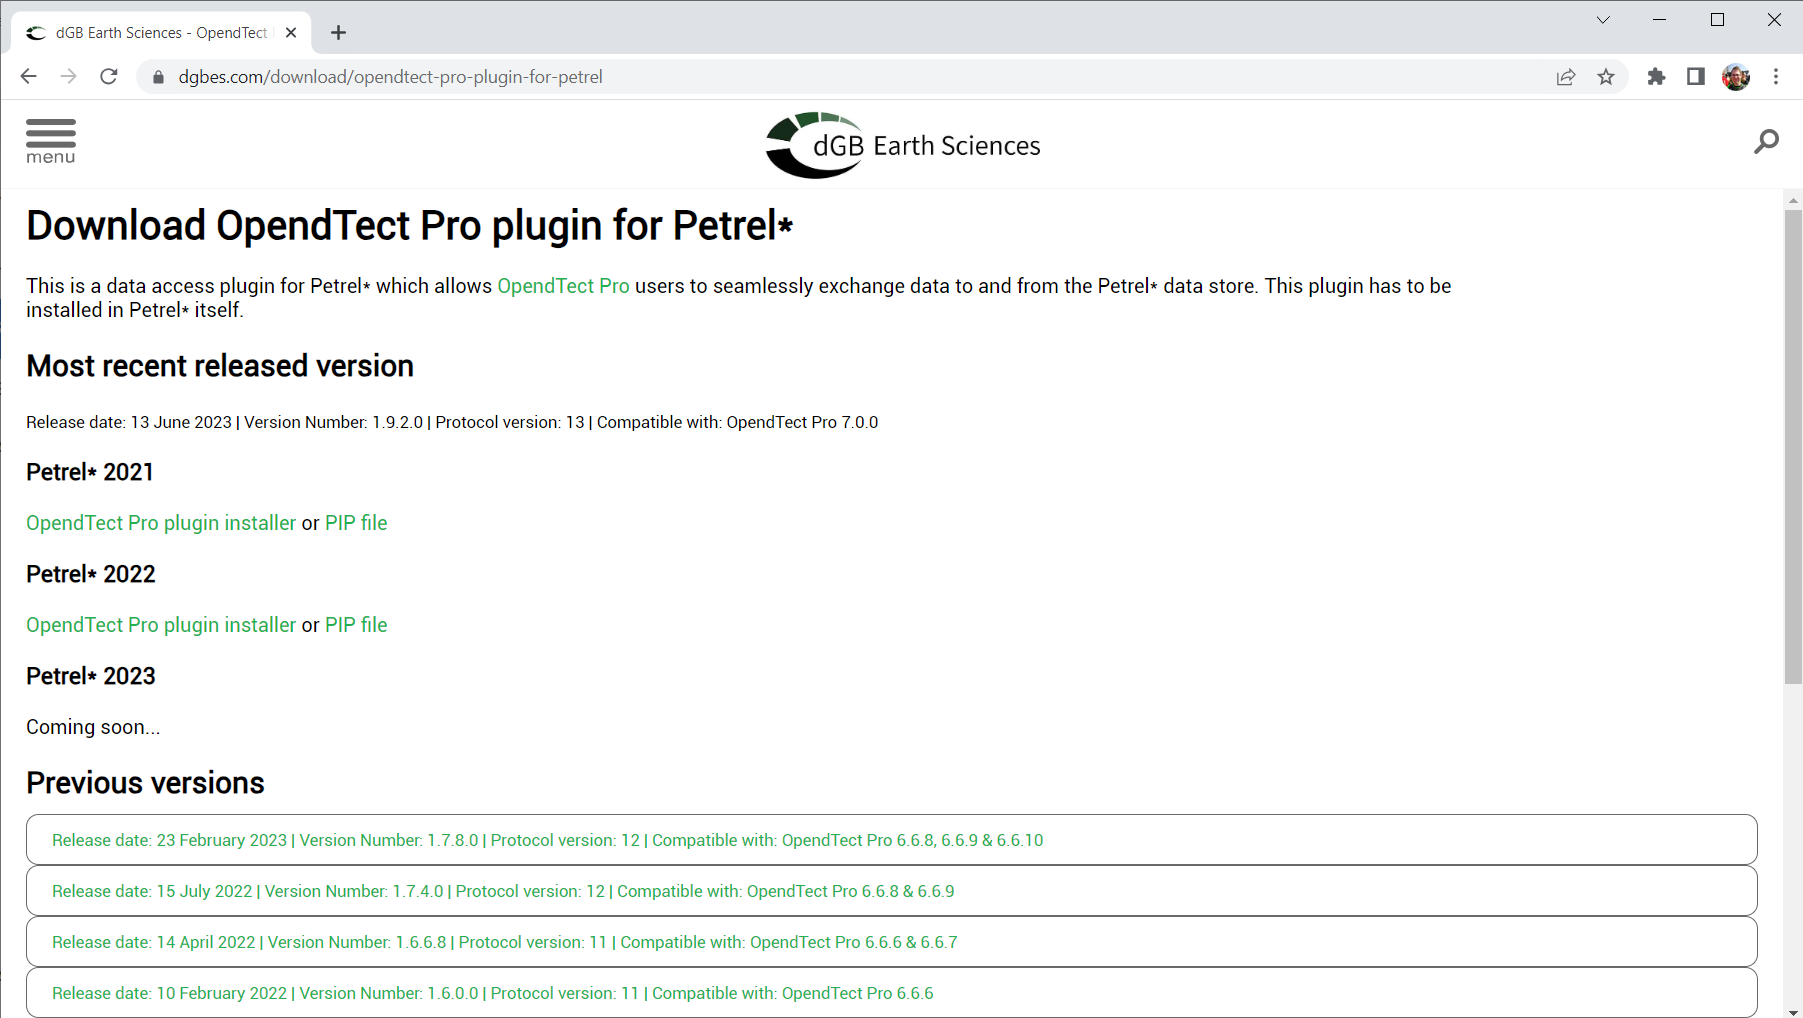
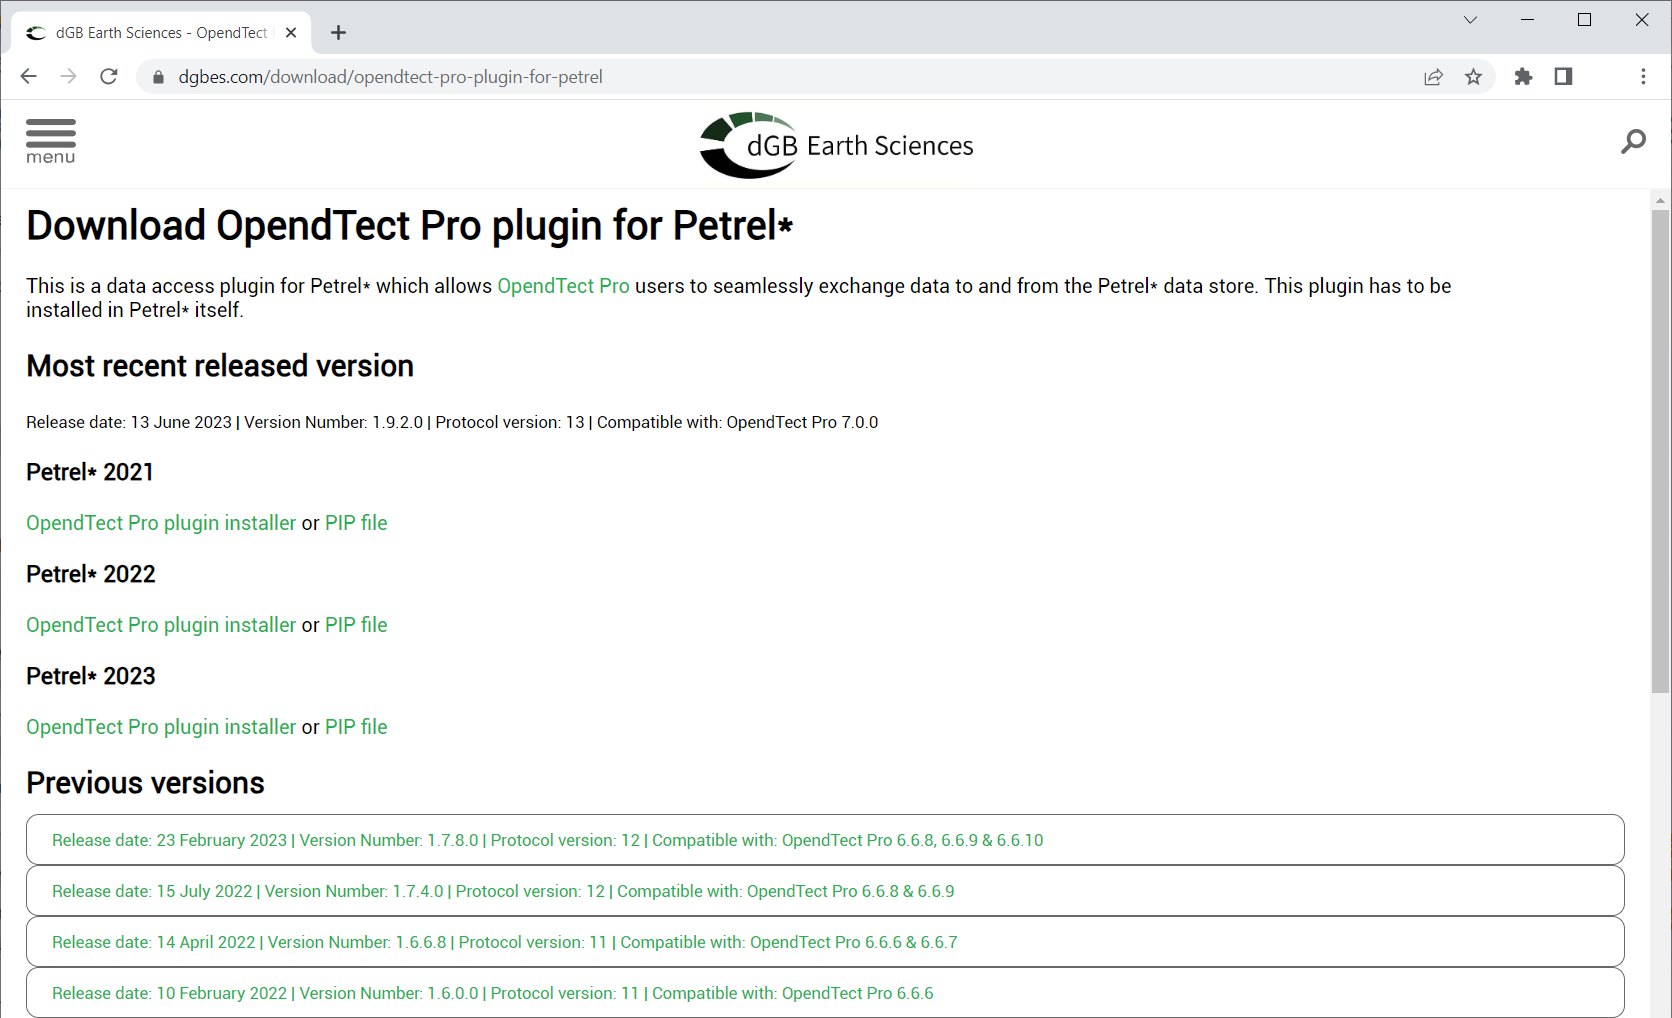
Updated Petrel Plugin page

diff --git a/admindoc/Content/Installation/Petrel_Plugin.htm b/admindoc/Content/Installation/Petrel_Plugin.htm
@@ -21,7 +21,7 @@
         </MadCap:conditionalText>
         <p>The plugin can be installed to Petrel* with the help of the PIP file in the usual way, where you have to use the Plugin manager tool from the menu:&#160;File &gt;&#160;Options &gt; Plugin manager. Press 'Install plugin' and select the downloaded&#160;PIP file. After installation restart Petrel* to activate the plugin.</p>
         <p>In order to install the updated version of the plugin, please remove the old one from the Petrel* plugin manager. Then restart Petrel* and install the plugin as described above.</p>
-        <p>The PIP files can be downloaded from the <a href="https://dgbes.com/download/opendtect-pro-plugin-for-petrel" target="_blank">OpendTect Pro plugin for Petrel* download page</a>.<br /><br /><MadCap:conditionalText MadCap:conditions="Default.ScreenOnly"><img src="../Resources/Images/PetrelDirect-download-page.png" class="General_Image" style="width: 1051px;height: 592px;" /></MadCap:conditionalText><br /><small>Figure:&#160;PetrelDirect download page</small><br /></p>
+        <p>The PIP files can be downloaded from the <a href="https://dgbes.com/download/opendtect-pro-plugin-for-petrel" target="_blank">OpendTect Pro plugin for Petrel* download page</a>.<br /><br /><img src="../Resources/Images/PetrelDirect-download-page.png" class="General_Image" style="width: 1163px;height: 707px;" /><br /><figcaption class="figuretext"><small>Figure:&#160;PetrelDirect download page</small></figcaption><br /></p>
         <p><i>*&#160;Petrel is a mark of Schlumberger</i>
         </p>
         <MadCap:conditionalText MadCap:conditions="Default.ScreenOnly">
@@ -34,7 +34,7 @@
         </MadCap:conditionalText>
         <p>By default the plugin should use the TCP/IP port 57375; in case this port is not available / accessible it can be changed in two ways:</p>
         <ul>
-            <li>From plugin user interface, which is available under the 'Seismic interpretation' tab in the Petrel*&#160;ribbon.<br /><MadCap:conditionalText MadCap:conditions="Default.ScreenOnly"><img src="../Resources/Images/PetrelDirect-Petrel-settings2.png" class="General_Image" /></MadCap:conditionalText><MadCap:conditionalText MadCap:conditions="Default.PrintOnly"><img src="../Resources/Images/PetrelDirect-Petrel-settings2-cropped.png" class="General_Image" /></MadCap:conditionalText><br /><small>Figure:&#160;OpendTect Settings in ribbon</small><br /><br /><img src="../Resources/Images/PetrelDirect-Petrel-settings3.png" class="General_Image" /><br /><small>Figure: Settings for OpendTect connection</small><br /><br /></li>
+            <li>From plugin user interface, which is available under the 'Seismic interpretation' tab in the Petrel*&#160;ribbon.<br /><MadCap:conditionalText MadCap:conditions="Default.ScreenOnly"><img src="../Resources/Images/PetrelDirect-Petrel-settings2.png" class="General_Image" /></MadCap:conditionalText><MadCap:conditionalText MadCap:conditions="Default.PrintOnly"><img src="../Resources/Images/PetrelDirect-Petrel-settings2-cropped.png" class="General_Image" /></MadCap:conditionalText><br /><figcaption class="figuretext"><small>Figure:&#160;OpendTect Settings in ribbon</small></figcaption><br /><br /><img src="../Resources/Images/PetrelDirect-Petrel-settings3.png" class="General_Image" /><br /><figcaption class="figuretext"><small>Figure: Settings for OpendTect connection</small></figcaption><br /><br /></li>
             <li>By adding an environment variable DTECT_PETREL_PORT, and setting its value to the preferred port number which is available for access.</li>
         </ul>
         <MadCap:conditionalText MadCap:conditions="Default.ScreenOnly">
@@ -67,8 +67,8 @@
         </MadCap:conditionalText>
         <ol>
             <li>OpendTect <MadCap:variable name="Variables.VersionNumber" />:&#160;PetrelDirect plugin is a part of OpendTect Pro:</li>
-            <li>Once OpendTect Pro is installed, PetrelDirect status button can be found in the lower right corner of the main OpendTect window. Make sure that it is enabled and initialized:<br /><img src="../Resources/Images/PetrelDirect-OpendTect-settings1.png" class="General_Image" /> <img src="../Resources/Images/PetrelDirect-OpendTect-settings1b.png" class="General_Image" /><br /><small>Figure:&#160;PetrelDirect status button</small><br /><br /></li>
-            <li>Click the button to check the Petrel connection settings. Make sure that the TCP&#160;port is the same port as is set in Petrel*.<br /><img src="../Resources/Images/PetrelDirect-OpendTect-settings2.png" class="General_Image" /><br /><small>Figure:&#160;Petrel connection settings window</small><br /></li>
+            <li>Once OpendTect Pro is installed, PetrelDirect status button can be found in the lower right corner of the main OpendTect window. Make sure that it is enabled and initialized:<br /><img src="../Resources/Images/PetrelDirect-OpendTect-settings1.png" class="General_Image" /> <img src="../Resources/Images/PetrelDirect-OpendTect-settings1b.png" class="General_Image" /><br /><figcaption class="figuretext"><small>Figure:&#160;PetrelDirect status button</small></figcaption><br /><br /></li>
+            <li>Click the button to check the Petrel connection settings. Make sure that the TCP&#160;port is the same port as is set in Petrel*.<br /><img src="../Resources/Images/PetrelDirect-OpendTect-settings2.png" class="General_Image" /><br /><figcaption class="figuretext"><small>Figure:&#160;Petrel connection settings window</small></figcaption><br /></li>
         </ol>
         <MadCap:conditionalText MadCap:conditions="Default.ScreenOnly">
             <h3>Petrel*</h3>
@@ -86,7 +86,7 @@
             <li>Download msi file from the <a href="https://dgbes.com/download/opendtect-pro-plugin-for-petrel" target="_blank">OpendTect Pro plugin for Petrel* download page</a>.</li>
             <li>Run the msi file and follow the instructions.</li>
             <li style="font-style: normal;">Start Petrel*</li>
-            <li style="font-style: normal;">Go to <i>Seismic Interpretation tab</i> and observe that OpendTect toolbar is there now.<br /><MadCap:conditionalText MadCap:conditions="Default.ScreenOnly"><img src="../Resources/Images/PetrelDirect-Petrel-settings1.png" class="General_Image" /></MadCap:conditionalText><MadCap:conditionalText MadCap:conditions="Default.PrintOnly"><img src="../Resources/Images/PetrelDirect-Petrel-settings1-cropped.png" class="General_Image" /></MadCap:conditionalText><br /><small>Figure:&#160;OpendTect toolbar</small><br /></li>
+            <li style="font-style: normal;">Go to <i>Seismic Interpretation tab</i> and observe that OpendTect toolbar is there now.<br /><MadCap:conditionalText MadCap:conditions="Default.ScreenOnly"><img src="../Resources/Images/PetrelDirect-Petrel-settings1.png" class="General_Image" /></MadCap:conditionalText><MadCap:conditionalText MadCap:conditions="Default.PrintOnly"><img src="../Resources/Images/PetrelDirect-Petrel-settings1-cropped.png" class="General_Image" /></MadCap:conditionalText><br /><figcaption class="figuretext"><small>Figure:&#160;OpendTect toolbar</small></figcaption><br /></li>
         </ol>
         <p style="font-style: normal;font-weight: normal;"><b>Via Plugin Installer&#160;Package (PIP file):</b>
         </p>
@@ -101,10 +101,10 @@
         <ol>
             <li style="font-style: normal;font-weight: normal;">Download PIP file from the <a href="https://dgbes.com/download/opendtect-pro-plugin-for-petrel" target="_blank">OpendTect Pro plugin for Petrel* download page</a>.</li>
             <li style="font-style: normal; font-weight: normal;">Start Petrel*</li>
-            <li style="font-style: normal; font-weight: normal;">In Petrel* main window: go to File &gt;&#160;Options &gt; Plugin Manager ...<br /><img src="../Resources/Images/PetrelDirect-Petrel-plugin-manager1.png" class="General_Image" /><br /><small>Figure:&#160;File &gt;&#160;Options &gt;&#160;Plugin Manager</small><br /><br /></li>
+            <li style="font-style: normal; font-weight: normal;">In Petrel* main window: go to File &gt;&#160;Options &gt; Plugin Manager ...<br /><img src="../Resources/Images/PetrelDirect-Petrel-plugin-manager1.png" class="General_Image" /><br /><figcaption class="figuretext"><small>Figure:&#160;File &gt;&#160;Options &gt;&#160;Plugin Manager</small></figcaption><br /><br /></li>
             <li style="font-style: normal; font-weight: normal;">In <i>Ocean Plugin Manager</i> window:<ol><li style="font-weight: normal;font-style: normal;">Click on <i>Install plugin</i> button</li><li style="font-weight: normal; font-style: normal;">Locate&#160;PIP file and click <i>Open</i></li><li style="font-weight: normal; font-style: normal;">Once the installation is finished click <i>Close</i> in both windows</li></ol></li>
             <li>Restart Petrel*</li>
-            <li>Go to <i>Seismic Interpretation tab</i> and observe that OpendTect toolbar is there now.<br /><MadCap:conditionalText MadCap:conditions="Default.ScreenOnly"><img src="../Resources/Images/PetrelDirect-Petrel-settings1.png" class="General_Image" /></MadCap:conditionalText><MadCap:conditionalText MadCap:conditions="Default.PrintOnly"><img src="../Resources/Images/PetrelDirect-Petrel-settings1-cropped.png" class="General_Image" /></MadCap:conditionalText><br /><small>Figure:&#160;OpendTect toolbar</small><br /></li>
+            <li>Go to <i>Seismic Interpretation tab</i> and observe that OpendTect toolbar is there now.<br /><MadCap:conditionalText MadCap:conditions="Default.ScreenOnly"><img src="../Resources/Images/PetrelDirect-Petrel-settings1.png" class="General_Image" /></MadCap:conditionalText><MadCap:conditionalText MadCap:conditions="Default.PrintOnly"><img src="../Resources/Images/PetrelDirect-Petrel-settings1-cropped.png" class="General_Image" /></MadCap:conditionalText><br /><figcaption class="figuretext"><small>Figure:&#160;OpendTect toolbar</small></figcaption><br /></li>
         </ol>
         <p style="font-style: normal;"><i>*&#160;Petrel is a mark of Schlumberger</i>
         </p>
